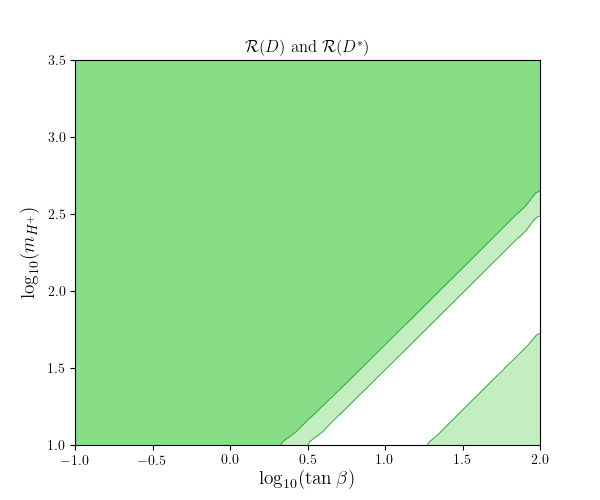
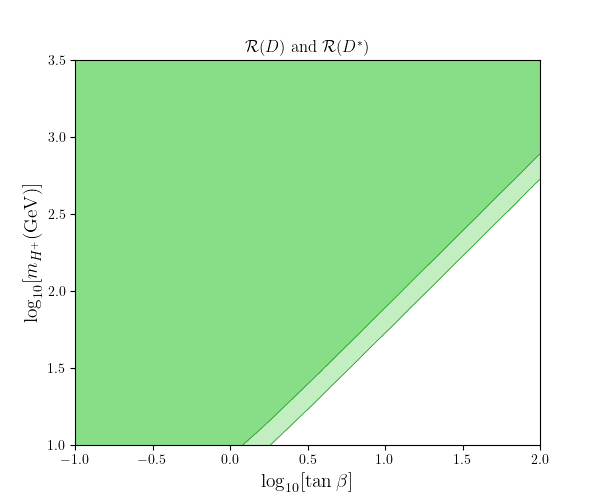
bctaunu tests and typo fixes

diff --git a/repl-glob.py b/repl-glob.py
@@ -83,6 +83,10 @@ my_obs = [
 obs2 = ['BR(Bs->Dsmunu)','BR(Bs->Ds*munu)',]
 
 #Fleps = FastLikelihood(name="trees",observables=my_obs[:9]+my_obs[14:38]+obs2,include_measurements=['Tree Level Leptonics','LFU D Ratios','Tree Level Semileptonics']) 
+#Fleps = FastLikelihood(name="trees",observables=my_obs[14:38]+obs2,include_measurements=['LFU D Ratios','Tree Level Semileptonics']) 
+Fleps = FastLikelihood(name="trees",observables=my_obs[14:16],include_measurements=['LFU D Ratios',]) 
+#Fleps = FastLikelihood(name="trees",observables=[my_obs[14]],include_measurements=['LFU D Ratios',]) 
+#Fleps = FastLikelihood(name="trees",observables=[my_obs[15]],include_measurements=['LFU D Ratios',]) 
 #Fmix = FastLikelihood(name="mix",observables=my_obs[10:12],include_measurements=['B Mixing',]) 
 #Frad = FastLikelihood(name="rad",observables=[my_obs[9]],include_measurements=['Radiative Decays'])
 #------------------------------
@@ -93,10 +97,10 @@ obs2 = ['BR(Bs->Dsmunu)','BR(Bs->Ds*munu)',]
 #FL2 = FastLikelihood(name="glob",observables=obs_list,include_measurements=['Tree Level Leptonics','Radiative Decays','FCNC Leptonic Decays','B Mixing','LFU D Ratios','Tree Level Semileptonics','LFU K Ratios',])
 #FL2 = FastLikelihood(name="glob",observables=my_obs[:-3]+obs2,include_measurements=['Tree Level Leptonics','Radiative Decays','FCNC Leptonic Decays','B Mixing','LFU D Ratios','Tree Level Semileptonics',])
 #------------------------------
-Fmuon = FastLikelihood(name="muons",observables=['a_mu'],include_measurements=['Anomalous Magnetic Moments'])
-Fmuon.make_measurement(N=500,threads=4)
+#Fmuon = FastLikelihood(name="muons",observables=['a_mu'],include_measurements=['Anomalous Magnetic Moments'])
+#Fmuon.make_measurement(N=500,threads=4)
 
-#Fleps.make_measurement(N=500,threads=4)
+Fleps.make_measurement(N=500,threads=4)
 #Fmix.make_measurement(N=500,threads=4)
 #Frad.make_measurement(N=500,threads=4)
 #Fmu.make_measurement(N=500,threads=4)
@@ -112,31 +116,41 @@ def leps(wcs):
     par = flavio.default_parameters.get_central_all()
     ckm_els = flavio.physics.ckm.get_ckm(par) # get out all the CKM elements
 
-    CSR_b, CSL_b = rh(par['m_u'],par['m_b'],10**tanb,10**mH)
-    CSR_d, CSL_d = rh(par['m_c'],par['m_d'],10**tanb,10**mH)
-    CSR_ds, CSL_ds = rh(par['m_c'],par['m_s'],10**tanb,10**mH)
-    CSR_k, CSL_k = rh(par['m_u'],par['m_s'],10**tanb,10**mH)
-    CSR_p, CSL_p = rh(par['m_u'],par['m_d'],10**tanb,10**mH)
-    CSL_bc, CSR_bc = rh(par['m_c'],par['m_b'],10**tanb,10**mH)
+#    CSR_b_t, CSL_b_t = rh(par['m_u'],par['m_b'],par['m_tau'],10**tanb,10**mH)
+#    CSR_b_m, CSL_b_m = rh(par['m_u'],par['m_b'],par['m_mu'],10**tanb,10**mH)
+#    CSR_b_e, CSL_b_e = rh(par['m_u'],par['m_b'],par['m_e'],10**tanb,10**mH)
+#    CSR_d_m, CSL_d_m = rh(par['m_c'],par['m_d'],par['m_mu'],10**tanb,10**mH)
+#    CSR_d_e, CSL_d_e = rh(par['m_c'],par['m_d'],par['m_e'],10**tanb,10**mH)
+#    CSR_ds_t, CSL_ds_t = rh(par['m_c'],par['m_s'],par['m_tau'],10**tanb,10**mH)
+#    CSR_ds_m, CSL_ds_m = rh(par['m_c'],par['m_s'],par['m_mu'],10**tanb,10**mH)
+#    CSR_ds_e, CSL_ds_e = rh(par['m_c'],par['m_s'],par['m_e'],10**tanb,10**mH)
+#    CSR_k_t, CSL_k_t = rh(par['m_u'],par['m_s'],par['m_tau'],10**tanb,10**mH)
+#    CSR_k_m, CSL_k_m = rh(par['m_u'],par['m_s'],par['m_mu'],10**tanb,10**mH)
+#    CSR_k_e, CSL_k_e = rh(par['m_u'],par['m_s'],par['m_e'],10**tanb,10**mH)
+#    CSR_p_t, CSL_p_t = rh(par['m_u'],par['m_d'],par['m_tau'],10**tanb,10**mH)
+#    CSR_p_m, CSL_p_m = rh(par['m_u'],par['m_d'],par['m_mu'],10**tanb,10**mH)
+    CSR_bc_t, CSL_bc_t = rh(par['m_c'],par['m_b'],par['m_tau'],10**tanb,10**mH)
+    CSR_bc_m, CSL_bc_m = rh(par['m_c'],par['m_b'],par['m_mu'],10**tanb,10**mH)
+    CSR_bc_e, CSL_bc_e = rh(par['m_c'],par['m_b'],par['m_e'],10**tanb,10**mH)
 
     wc = flavio.WilsonCoefficients()
     wc.set_initial({ # tell flavio what WCs you're referring to with your variables
-            'CSR_bctaunutau': CSR_bc, 'CSL_bctaunutau': CSL_bc,
-            'CSR_bcmunumu': CSR_bc, 'CSL_bcmunumu': CSL_bc,
-            'CSR_bcenue': CSR_bc, 'CSL_bcenue': CSL_bc, 
-            'CSR_butaunutau': CSR_b, 'CSL_butaunutau': CSL_b,
-            'CSR_bumunumu': CSR_b, 'CSL_bumunumu': CSL_b,
-            'CSR_buenue': CSR_b, 'CSL_buenue': CSL_b, 
-            'CSR_dcmunumu': CSR_d, 'CSL_dcmunumu': CSL_d,
-            'CSR_dcenue': CSR_d, 'CSL_dcenue': CSL_d, 
-            'CSR_sctaunutau': CSR_ds, 'CSL_sctaunutau': CSL_ds,
-            'CSR_scmunumu': CSR_ds, 'CSL_scmunumu': CSL_ds,
-            'CSR_scenue': CSR_ds, 'CSL_scenue': CSL_ds, 
-            'CSR_sutaunutau': CSR_k, 'CSL_sutaunutau': CSL_k, 
-            'CSR_sumunumu': CSR_k, 'CSL_sumunumu': CSL_k, 
-            'CSR_suenue': CSR_k, 'CSL_suenue': CSL_k, 
-            'CSR_dutaunutau': CSR_p, 'CSL_dutaunutau': CSL_p, 
-            'CSR_dumunumu': CSR_p, 'CSL_dumunumu': CSL_p, 
+            'CSR_bctaunutau': CSR_bc_t, 'CSL_bctaunutau': CSL_bc_t,
+            'CSR_bcmunumu': CSR_bc_m, 'CSL_bcmunumu': CSL_bc_m,
+            'CSR_bcenue': CSR_bc_e, 'CSL_bcenue': CSL_bc_e, 
+#            'CSR_butaunutau': CSR_b_t, 'CSL_butaunutau': CSL_b_t,
+#            'CSR_bumunumu': CSR_b_m, 'CSL_bumunumu': CSL_b_m,
+#            'CSR_buenue': CSR_b_e, 'CSL_buenue': CSL_b_e, 
+#            'CSR_dcmunumu': CSR_d_m, 'CSL_dcmunumu': CSL_d_m,
+#            'CSR_dcenue': CSR_d_e, 'CSL_dcenue': CSL_d_e, 
+#            'CSR_sctaunutau': CSR_ds_t, 'CSL_sctaunutau': CSL_ds_t,
+#            'CSR_scmunumu': CSR_ds_m, 'CSL_scmunumu': CSL_ds_m,
+#            'CSR_scenue': CSR_ds_e, 'CSL_scenue': CSL_ds_e, 
+#            'CSR_sutaunutau': CSR_k_t, 'CSL_sutaunutau': CSL_k_t, 
+#            'CSR_sumunumu': CSR_k_m, 'CSL_sumunumu': CSL_k_m, 
+#            'CSR_suenue': CSR_k_e, 'CSL_suenue': CSL_k_e, 
+#            'CSR_dutaunutau': CSR_p_t, 'CSL_dutaunutau': CSL_p_t, 
+#            'CSR_dumunumu': CSR_p_m, 'CSL_dumunumu': CSL_p_m, 
         }, scale=4.2, eft='WET', basis='flavio')
     return Fleps.log_likelihood(par,wc)
 
@@ -239,12 +253,22 @@ def func(wcs):
     par = flavio.default_parameters.get_central_all()
     ckm_els = flavio.physics.ckm.get_ckm(par) # get out all the CKM elements
 
-    CSR_b, CSL_b = rh(par['m_u'],par['m_b'],10**tanb,10**mH)
-    CSR_d, CSL_d = rh(par['m_c'],par['m_d'],10**tanb,10**mH)
-    CSR_ds, CSL_ds = rh(par['m_c'],par['m_s'],10**tanb,10**mH)
-    CSR_k, CSL_k = rh(par['m_u'],par['m_s'],10**tanb,10**mH)
-    CSR_p, CSL_p = rh(par['m_u'],par['m_d'],10**tanb,10**mH)
-    CSL_bc, CSR_bc = rh(par['m_c'],par['m_b'],10**tanb,10**mH)
+    CSR_b_t, CSL_b_t = rh(par['m_u'],par['m_b'],par['m_tau'],10**tanb,10**mH)
+    CSR_b_m, CSL_b_m = rh(par['m_u'],par['m_b'],par['m_mu'],10**tanb,10**mH)
+    CSR_b_e, CSL_b_e = rh(par['m_u'],par['m_b'],par['m_e'],10**tanb,10**mH)
+    CSR_d_m, CSL_d_m = rh(par['m_c'],par['m_d'],par['m_mu'],10**tanb,10**mH)
+    CSR_d_e, CSL_d_e = rh(par['m_c'],par['m_d'],par['m_e'],10**tanb,10**mH)
+    CSR_ds_t, CSL_ds_t = rh(par['m_c'],par['m_s'],par['m_tau'],10**tanb,10**mH)
+    CSR_ds_m, CSL_ds_m = rh(par['m_c'],par['m_s'],par['m_mu'],10**tanb,10**mH)
+    CSR_ds_e, CSL_ds_e = rh(par['m_c'],par['m_s'],par['m_e'],10**tanb,10**mH)
+    CSR_k_t, CSL_k_t = rh(par['m_u'],par['m_s'],par['m_tau'],10**tanb,10**mH)
+    CSR_k_m, CSL_k_m = rh(par['m_u'],par['m_s'],par['m_mu'],10**tanb,10**mH)
+    CSR_k_e, CSL_k_e = rh(par['m_u'],par['m_s'],par['m_e'],10**tanb,10**mH)
+    CSR_p_t, CSL_p_t = rh(par['m_u'],par['m_d'],par['m_tau'],10**tanb,10**mH)
+    CSR_p_m, CSL_p_m = rh(par['m_u'],par['m_d'],par['m_mu'],10**tanb,10**mH)
+    CSR_bc_t, CSL_bc_t = rh(par['m_c'],par['m_b'],par['m_tau'],10**tanb,10**mH)
+    CSR_bc_m, CSL_bc_m = rh(par['m_c'],par['m_b'],par['m_mu'],10**tanb,10**mH)
+    CSR_bc_e, CSL_bc_e = rh(par['m_c'],par['m_b'],par['m_e'],10**tanb,10**mH)
     C7, C7p, C8, C8p = bsgamma2(par,ckm_els,flavio.config['renormalization scale']['bxgamma'],10**tanb,10**mH)
     C9_se, C9p_se, C10_se, C10p_se, CS_se, CSp_se, CP_se, CPp_se = bsll(par,ckm_els,['m_s','m_d',1],['m_e','m_mu',1],10**mH0,10**tanb,10**mH)
     C9_s, C9p_s, C10_s, C10p_s, CS_s, CSp_s, CP_s, CPp_s = bsll(par,ckm_els,['m_s','m_d',1],['m_mu','m_e',1],10**mH0,10**tanb,10**mH)
@@ -254,22 +278,22 @@ def func(wcs):
 
     wc = flavio.WilsonCoefficients()
     wc.set_initial({ # tell flavio what WCs you're referring to with your variables
-            'CSR_bctaunutau': CSR_bc, 'CSL_bctaunutau': CSL_bc,
-            'CSR_bcmunumu': CSR_bc, 'CSL_bcmunumu': CSL_bc,
-            'CSR_bcenue': CSR_bc, 'CSL_bcenue': CSL_bc, 
-            'CSR_butaunutau': CSR_b, 'CSL_butaunutau': CSL_b,
-            'CSR_bumunumu': CSR_b, 'CSL_bumunumu': CSL_b,
-            'CSR_buenue': CSR_b, 'CSL_buenue': CSL_b, 
-            'CSR_dcmunumu': CSR_d, 'CSL_dcmunumu': CSL_d,
-            'CSR_dcenue': CSR_d, 'CSL_dcenue': CSL_d, 
-            'CSR_sctaunutau': CSR_ds, 'CSL_sctaunutau': CSL_ds,
-            'CSR_scmunumu': CSR_ds, 'CSL_scmunumu': CSL_ds,
-            'CSR_scenue': CSR_ds, 'CSL_scenue': CSL_ds, 
-            'CSR_sutaunutau': CSR_k, 'CSL_sutaunutau': CSL_k, 
-            'CSR_sumunumu': CSR_k, 'CSL_sumunumu': CSL_k, 
-            'CSR_suenue': CSR_k, 'CSL_suenue': CSL_k, 
-            'CSR_dutaunutau': CSR_p, 'CSL_dutaunutau': CSL_p, 
-            'CSR_dumunumu': CSR_p, 'CSL_dumunumu': CSL_p, 
+            'CSR_bctaunutau': CSR_bc_t, 'CSL_bctaunutau': CSL_bc_t,
+            'CSR_bcmunumu': CSR_bc_m, 'CSL_bcmunumu': CSL_bc_m,
+            'CSR_bcenue': CSR_bc_e, 'CSL_bcenue': CSL_bc_e, 
+            'CSR_butaunutau': CSR_b_t, 'CSL_butaunutau': CSL_b_t,
+            'CSR_bumunumu': CSR_b_m, 'CSL_bumunumu': CSL_b_m,
+            'CSR_buenue': CSR_b_e, 'CSL_buenue': CSL_b_e, 
+            'CSR_dcmunumu': CSR_d_m, 'CSL_dcmunumu': CSL_d_m,
+            'CSR_dcenue': CSR_d_e, 'CSL_dcenue': CSL_d_e, 
+            'CSR_sctaunutau': CSR_ds_t, 'CSL_sctaunutau': CSL_ds_t,
+            'CSR_scmunumu': CSR_ds_m, 'CSL_scmunumu': CSL_ds_m,
+            'CSR_scenue': CSR_ds_e, 'CSL_scenue': CSL_ds_e, 
+            'CSR_sutaunutau': CSR_k_t, 'CSL_sutaunutau': CSL_k_t, 
+            'CSR_sumunumu': CSR_k_m, 'CSL_sumunumu': CSL_k_m, 
+            'CSR_suenue': CSR_k_e, 'CSL_suenue': CSL_k_e, 
+            'CSR_dutaunutau': CSR_p_t, 'CSL_dutaunutau': CSL_p_t, 
+            'CSR_dumunumu': CSR_p_m, 'CSL_dumunumu': CSL_p_m, 
             'C7_bs': C7,'C7p_bs': C7p, 
             'C8_bs': C8,'C8p_bs': C8p, 
             'C9_bsee': C9_se,'C9p_bsee': C9p_se,
@@ -289,9 +313,9 @@ def func(wcs):
 sigmas = (1,2)
 #sigmas = (3,4)
 
-cmuon = fpl.likelihood_contour_data(muon,0,4,-1,4, n_sigma=sigmas, threads=4, steps=100) 
+#cmuon = fpl.likelihood_contour_data(muon,0,4,-1,4, n_sigma=sigmas, threads=4, steps=100) 
 #cmuon = fpl.likelihood_contour_data(muon,-1,2,1,3.5, n_sigma=sigmas, threads=4, steps=100) 
-#cleps = fpl.likelihood_contour_data(leps,-1,2,1,3.5, n_sigma=sigmas, threads=4, steps=60) 
+cleps = fpl.likelihood_contour_data(leps,-1,2,1,3.5, n_sigma=sigmas, threads=4, steps=60) 
 #cmix = fpl.likelihood_contour_data(mix,-1,2,1,3.5, n_sigma=sigmas, threads=4, steps=60) 
 #crad = fpl.likelihood_contour_data(rad,-1,2,2.5,3.5, n_sigma=sigmas, threads=4, steps=60) 
 #cmu = fpl.likelihood_contour_data(mu,-1,2,1.5,4, n_sigma=sigmas, threads=4, steps=60) 
@@ -326,26 +350,26 @@ cmuon = fpl.likelihood_contour_data(muon,0,4,-1,4, n_sigma=sigmas, threads=4, st
 #   Plotting
 #------------------------------
 
-plt.figure(figsize=(6,5))
-fpl.contour(**cmuon,col=0) 
-#plt.title(r'Anomalous magnetic moment of the muon, $a_\mu$'+'\n'+'for $m_{A^0}\sim m_{H^+}$ and $m_{H^0} = 1500\,$GeV')
-plt.title(r'Anomalous magnetic moment of the muon, $a_\mu$'+'\n'+'for $m_{H^0}\sim m_{H^+}$ and $m_{A^0} = 1500\,$GeV')
-#plt.title(r'Anomalous magnetic moment of the muon, $a_\mu$'+'\n'+'for $m_{H^0},m_{A^0}\sim m_{H^+}$')
-plt.axhline(y=np.log10(1220),color='black',linestyle='--')
-plt.axhline(y=np.log10(1660),color='black',linestyle='--')
-plt.xlabel(r'$\log_{10}[\tan\beta]$') 
-plt.ylabel(r'$\log_{10}[m_{H^+} (\text{GeV})]$') 
-plt.savefig('muon_plot.png')
-quit()
-
 #plt.figure(figsize=(6,5))
-#fpl.contour(**cleps,col=2) 
-#plt.title('Tree-Level Leptonic and Semileptonic Meson Decays and Hadronic Tau Decays')
-##plt.title(r'$B_s\to D_s^{(*)}\mu\nu_\mu$ Fit')
-##plt.title(r'$\mathcal{R}(D^*)$ Individual Fit')
+#fpl.contour(**cmuon,col=0) 
+##plt.title(r'Anomalous magnetic moment of the muon, $a_\mu$'+'\n'+'for $m_{A^0}\sim m_{H^+}$ and $m_{H^0} = 1500\,$GeV')
+#plt.title(r'Anomalous magnetic moment of the muon, $a_\mu$'+'\n'+'for $m_{H^0}\sim m_{H^+}$ and $m_{A^0} = 1500\,$GeV')
+##plt.title(r'Anomalous magnetic moment of the muon, $a_\mu$'+'\n'+'for $m_{H^0},m_{A^0}\sim m_{H^+}$')
+#plt.axhline(y=np.log10(1220),color='black',linestyle='--')
+#plt.axhline(y=np.log10(1660),color='black',linestyle='--')
 #plt.xlabel(r'$\log_{10}[\tan\beta]$') 
 #plt.ylabel(r'$\log_{10}[m_{H^+} (\text{GeV})]$') 
-#plt.savefig('qqlnu_plot.png')
+#plt.savefig('muon_plot.png')
+
+plt.figure(figsize=(6,5))
+fpl.contour(**cleps,col=2) 
+#plt.title('Tree-Level Leptonic and Semileptonic Meson Decays and Hadronic Tau Decays')
+#plt.title('Tree-Level Semileptonic Meson Decays')
+plt.title(r'$\mathcal{R}(D)$ and $\mathcal{R}(D^*)$')
+plt.xlabel(r'$\log_{10}[\tan\beta]$') 
+plt.ylabel(r'$\log_{10}[m_{H^+} (\text{GeV})]$') 
+plt.savefig('rd_both.png')
+quit()
 
 #plt.figure(figsize=(6,5))
 #fpl.contour(**cmix,col=0,interpolation_factor=1.1,interpolation_order=1) 

diff --git a/bctau.py b/bctau.py
@@ -1,0 +1,112 @@
+#!/bin/env python3
+
+import flavio
+from flavio.statistics.likelihood import FastLikelihood
+from flavio.physics.bdecays.formfactors import b_v, b_p
+from flavio.classes import Parameter, AuxiliaryQuantity, Implementation
+from flavio.statistics.functions import pvalue
+from flavio.config import config
+import multiprocessing as mp
+from multiprocessing import Pool
+import flavio.plots as fpl
+import matplotlib.pyplot as plt
+from mpl_toolkits.mplot3d import axes3d
+import numpy as np
+from functions import *
+
+#### parameter setting
+
+# should add these to flavio's yml doc at some point, but this will do for now
+pars = flavio.default_parameters
+
+vev = Parameter('vev')
+vev.tex = r"$v$"
+vev.description = "Vacuum Expectation Value of the SM Higgs"
+pars.set_constraint('vev','246')
+
+lam_QCD = Parameter('lam_QCD')
+lam_QCD.tex = r"$\Lambda_{QCD}$"
+lam_QCD.description = "QCD Lambda scale"
+pars.set_constraint('lam_QCD','0.2275 + 0.01433 - 0.01372')
+
+pars.set_constraint("tau_Bc",'774690000000 ± 13670999999')
+#pars.set_constraint("f_Bc",'0.371 ± 0.017')
+
+my_obs = ["BR(Bc->taunu)",]
+
+#------------------------------
+#   Leptonic and Semileptonic Tree Levels
+#------------------------------
+
+def leps(wcs):
+    tanb, mH = wcs # state what the two parameters are going to be on the plot
+
+    par = flavio.default_parameters.get_central_all()
+
+    CSR_bc, CSL_bc = rh(par['m_c'],par['m_b'],par['m_tau'],10**tanb,10**mH)
+
+    wc = flavio.WilsonCoefficients()
+    wc.set_initial({ # tell flavio what WCs you're referring to with your variables
+            'CSR_bctaunutau': CSR_bc, 'CSL_bctaunutau': CSL_bc,
+        }, scale=4.2, eft='WET', basis='flavio')
+    pred = flavio.np_prediction('BR(Bc->taunu)',wc_obj=wc)
+#    err = flavio.np_uncertainty('BR(Bc->taunu)',wc_obj=wc)
+#    pred += err
+    sm = flavio.sm_prediction('BR(Bc->taunu)')
+    return pred/sm #*100 #,err*100
+
+#par = flavio.default_parameters.get_central_all()
+#err = flavio.default_parameters.get_1d_errors_random()
+#print("f_Bc:",par['f_Bc'],"+/-",err['f_Bc'])
+#print("tau_Bc:",par['tau_Bc']/1.519e12,"+/-",err['tau_Bc']/1.519e12)
+#print("SM prediction is:",flavio.sm_prediction('BR(Bc->taunu)')*100,"+/-",flavio.sm_uncertainty('BR(Bc->taunu)')*100)
+#one = leps((np.log10(2),np.log10(980)))
+#print("For tanb = 2 and mH+ = 980:",one[0],"+/-",one[1])
+#two = leps((np.log10(8),np.log10(1500)))
+#print("For tanb = 8 and mH+ = 1500:",two[0],"+/-",two[1])
+#three = leps((np.log10(2),np.log10(3200)))
+#print("For tanb = 2 and mH+ = 3200:",three[0],"+/-",three[1])
+#four = leps((np.log10(0.5),np.log10(3200)))
+#print("For tanb = 0.5 and mH+ = 3200:",four[0],"+/-",four[1])
+#quit()
+
+def test(wcs):
+    t, m = wcs
+    tanb = 10**t
+    mH = 10**m
+
+    par = flavio.default_parameters.get_central_all()
+
+    rh = ((par['m_c']-par['m_b']*tanb**2)/(par['m_c']+par['m_b']))*(par['m_Bc']/mH)**2
+
+    return (1+rh)**2
+
+steps = 60
+tanb, mH = np.linspace(-1,1,steps),np.linspace(2.5,3.5,steps)
+t,h = np.meshgrid(tanb,mH)
+th = np.array([t,h]).reshape(2,steps**2).T
+
+pool = Pool()
+pred = np.array(pool.map(leps,th)).reshape((steps,steps))
+pool.close()
+pool.join()
+
+#------------------------------
+#   Plotting
+#------------------------------
+
+#fig = plt.figure()
+#s = fig.add_subplot(1,1,1,xlabel=r'$\log_{10}[\tan\beta]$',ylabel=r'$\log_{10}[m_{H^+} (\text{GeV})]$')
+#im = s.imshow(pred,extent=(tanb[0],tanb[-1],mH[0],mH[-1]),origin='lower')
+#fig.colorbar(im)
+#plt.title(r'$\mathcal{B}r[B_c\to\tau\nu_\tau]\times10^{-2}$ Upper Bound')# \frac{\text{2HDM}}{\text{SM}}$')#, for $f_{B_c} = 434\pm15\,$MeV')
+#plt.savefig('bctaunu_up.png')
+#plt.show()
+
+fig = plt.figure()
+ax = plt.axes(projection='3d')
+ax.plot_surface(t,h,pred)
+ax.set_xlabel(r'$\log_{10}[\tan\beta]$')
+ax.set_ylabel(r'$\log_{10}[m_{H^+} (\text{GeV})]$')
+ax.set_zlabel(r'$\mathcal{B}r[B_c\to\tau\nu_\tau]$ 2HDM/SM')
+plt.show()

diff --git a/functions.py b/functions.py
@@ -604,7 +604,7 @@ def mixing(par,CKM,mds,tanb,mH):
 
     return CVLL, CVRR, CSLL, CSRR, CSLR, CVLR
 
-def rh(mu,md,tanb,mH):
+def rh(mu,md,ml,tanb,mH):
     '''
         Function for M->lnu 2HDM WC contribution, based on rH we used from 0907.5135
 
@@ -612,8 +612,8 @@ def rh(mu,md,tanb,mH):
 
         Used https://github.com/flav-io/flavio/blob/master/flavio/physics/bdecays/blnu.py - line 22 - to figure this out
     '''
-    csr = mu/(mH**2)
-    csl = md*(tanb/mH)**2
+    csr = mu*ml/(mH**2)
+    csl = md*ml*(tanb/mH)**2
     return csr, csl
 
 def chi2_func(tanb, mH, mH0, obs):
